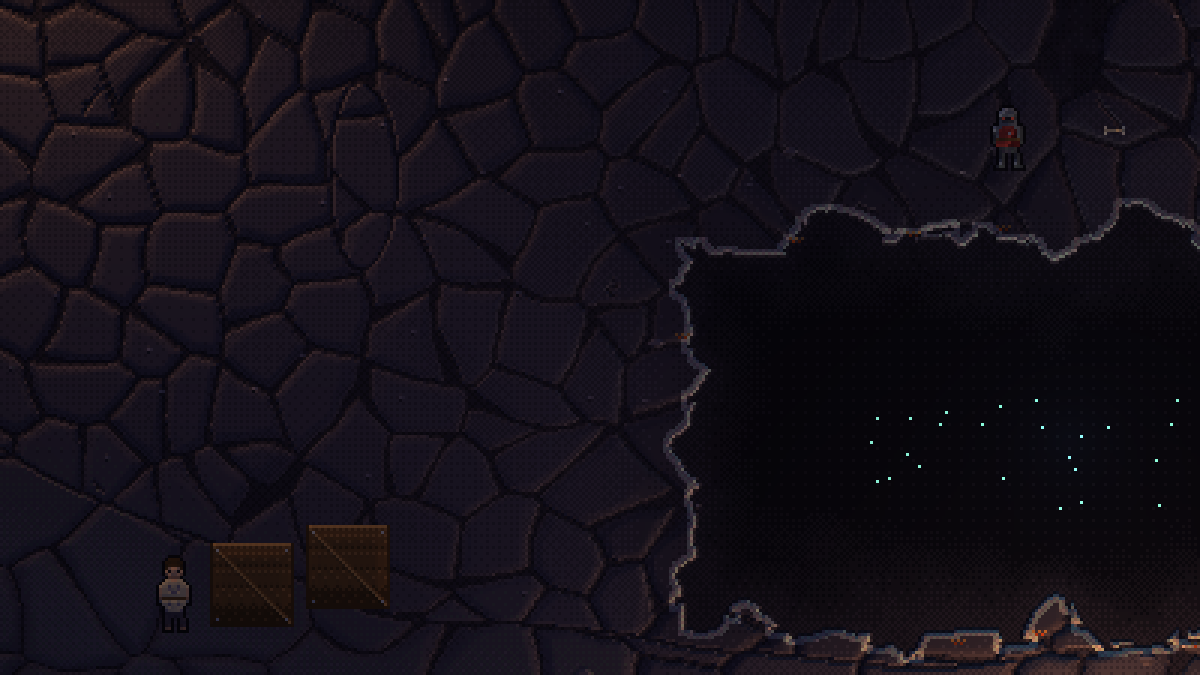
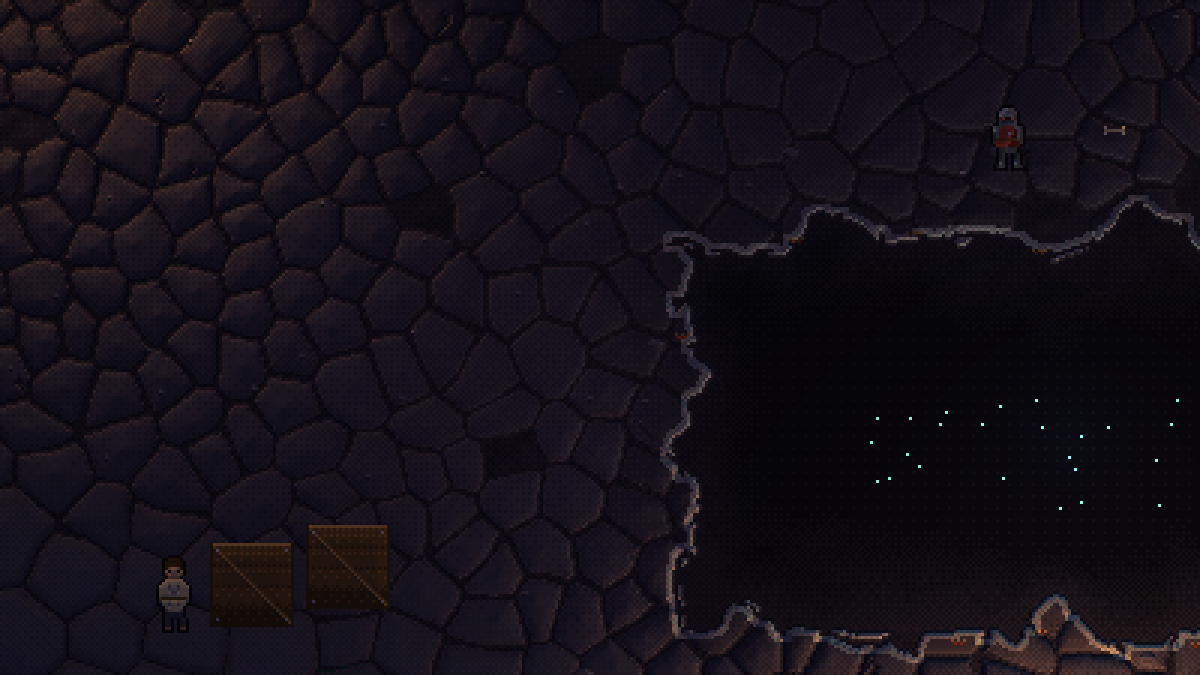
Seamless transitions in the natural floor generator
Replace the three hard stone-size zones with one smooth size field and
variable-radius Poisson-disc scattering under a single Voronoi diagram,
so stone sizes change gradually with no seams. Add a skewed per-stone
size spread to break the honeycomb, gently domed stones, per-stone
dampness decisions, muted moss and puddles, and an unlit debug view.
Document the transition rules and further ideas.

Claude-Session: https://claude.ai/code/session_01Ua1MtajnH2h1ctjtFfeCS3

diff --git a/tools/pixelart/natural_room.py b/tools/pixelart/natural_room.py
@@ -79,57 +79,101 @@ moisture = np.clip(np.exp(-d_water / 110.0) * 1.1 + (fbm(160, 3, 2) - 0.55) * 0.
 wear = np.clip(np.exp(-(d_path / 46.0) ** 2) * (0.7 + 0.5 * fbm(60, 2, 3)), 0, 1)
 grime = np.clip(np.exp(-d_wall / 26.0) * 0.9 + np.exp(-d_pit / 18.0) * 0.6 + (fbm(90, 3, 4) - 0.5) * 0.5, 0, 1)
 
-# --- 1. Warped Voronoi flagstones, in three sizes chosen by zone ----------------------------
+# --- 1. Flagstones with a smoothly varying size --------------------------------------------
+# One stone-size field covers the whole room: big slabs on worn routes, small cobbles in damp
+# ground, ordinary flagstones elsewhere, with gradual change in between. Stone centres are
+# scattered by variable-radius Poisson-disc sampling (each candidate keeps its own spacing),
+# then one Voronoi diagram is built over all of them. No zones, so no seams.
 warp = 6.0
 wx = XX + (fbm(40, 3, 10) - 0.5) * 2 * warp
 wy = YY + (fbm(40, 3, 11) - 0.5) * 2 * warp
 
-def voronoi(cell, jitter, seed):
-    r = np.random.default_rng(seed)
-    ny, nx = int(H / cell) + 4, int(W / cell) + 4
-    jx = r.random((ny, nx)); jy = r.random((ny, nx))
-    # Stretch some cells sideways or up-down so slabs aren't all round.
-    stretch = 0.75 + r.random((ny, nx)) * 0.5
-    gx = np.floor(wx / cell).astype(int); gy = np.floor(wy / cell).astype(int)
-    F1 = np.full((H, W), 1e9); F2 = np.full((H, W), 1e9); ID = np.zeros((H, W), int)
-    for oy in (-2, -1, 0, 1, 2):
-        for ox in (-2, -1, 0, 1, 2):
-            cx = np.clip(gx + ox, -1, nx - 3); cy = np.clip(gy + oy, -1, ny - 3)
-            sx = (cx + 0.5 + (jx[cy + 1, cx + 1] - 0.5) * jitter) * cell
-            sy = (cy + 0.5 + (jy[cy + 1, cx + 1] - 0.5) * jitter) * cell
-            k = stretch[cy + 1, cx + 1]
-            d = np.hypot((wx - sx) * k, (wy - sy) / k)
-            sid = (cy + 1) * nx + (cx + 1) + seed * 100000
-            closer = d < F1
-            F2 = np.where(closer, F1, np.minimum(F2, d))
-            ID = np.where(closer, sid, ID)
-            F1 = np.where(closer, d, F1)
-    return (F2 - F1) * 0.5, ID
+R_MIN, R_MAX = 8.0, 40.0
+size_noise = fbm(120, 3, 20)
+stone_size = np.clip(23.0 + 16.0 * wear - 17.0 * moisture ** 0.8 + (size_noise - 0.5) * 12.0, R_MIN, R_MAX)
 
-edge_big, id_big = voronoi(36.0, 0.9, 1)      # big worn slabs
-edge_mid, id_mid = voronoi(23.0, 0.95, 2)     # ordinary flagstones
-edge_small, id_small = voronoi(12.0, 1.0, 3)  # rough small cobbles in damp ground
-zone_big = (wear > 0.35) | (fbm(170, 2, 20) > 0.66)
-zone_small = (~zone_big) & (moisture > 0.5)
-edge = np.where(zone_big, edge_big, np.where(zone_small, edge_small, edge_mid))
-ID = np.where(zone_big, id_big, np.where(zone_small, id_small, id_mid))
-# A joint wherever two zones meet, so slabs don't merge into cobbles.
-zone = zone_big.astype(int) * 2 + zone_small.astype(int)
-zp = np.pad(zone, 1, mode="edge")
-seam = (zp[1:-1, 2:] != zone) | (zp[2:, 1:-1] != zone)
-edge = np.where(seam, 0.0, edge)
+def scatter_stones(seed):
+    """Variable-radius dart throwing. Returns an (n, 2) array of stone centres."""
+    r = random.Random(seed)
+    B = R_MAX
+    nbx, nby = int(W / B) + 2, int(H / B) + 2
+    buckets = [[[] for _ in range(nbx)] for _ in range(nby)]
+    pts = []
+    for _ in range(90000):
+        x = r.uniform(-B * 0.5, W + B * 0.5); y = r.uniform(-B * 0.5, H + B * 0.5)
+        xi, yi = int(min(W - 1, max(0, x))), int(min(H - 1, max(0, y)))
+        # A little per-stone randomness: now and then a big stone among small ones.
+        # Skewed spread: mostly ordinary stones, some much bigger or smaller. Breaks the honeycomb.
+        rad = stone_size[yi, xi] * (0.6 + 0.9 * r.random() ** 1.6)
+        bx, by = int((x + B) / B), int((y + B) / B)
+        ok = True
+        for yy in range(max(0, by - 1), min(nby, by + 2)):
+            for xx in range(max(0, bx - 1), min(nbx, bx + 2)):
+                for (px, py, pr) in buckets[yy][xx]:
+                    need = (rad + pr) * 0.42
+                    if (x - px) ** 2 + (y - py) ** 2 < need * need:
+                        ok = False; break
+                if not ok: break
+            if not ok: break
+        if ok:
+            buckets[min(nby - 1, by)][min(nbx - 1, bx)].append((x, y, rad))
+            pts.append((x, y))
+    return np.array(pts)
+
+def voronoi_points(pts):
+    """F1/F2 distances and nearest-stone ID for every pixel, using a bucket grid."""
+    B = R_MAX
+    nbx, nby = int(W / B) + 4, int(H / B) + 4
+    bx = np.clip(((pts[:, 0] + 2 * B) / B).astype(int), 0, nbx - 1)
+    by = np.clip(((pts[:, 1] + 2 * B) / B).astype(int), 0, nby - 1)
+    counts = np.zeros((nby, nbx), int)
+    for i in range(len(pts)):
+        counts[by[i], bx[i]] += 1
+    K = counts.max()
+    table = -np.ones((nby, nbx, K), int); fill = np.zeros((nby, nbx), int)
+    for i in range(len(pts)):
+        table[by[i], bx[i], fill[by[i], bx[i]]] = i; fill[by[i], bx[i]] += 1
+    gx = np.clip(((wx + 2 * B) / B).astype(int), 1, nbx - 2)
+    gy = np.clip(((wy + 2 * B) / B).astype(int), 1, nby - 2)
+    F1 = np.full((H, W), 1e9); F2 = np.full((H, W), 1e9); ID = np.zeros((H, W), int)
+    for oy in (-1, 0, 1):
+        for ox in (-1, 0, 1):
+            for k in range(K):
+                idx = table[gy + oy, gx + ox, k]
+                valid = idx >= 0
+                sx = pts[np.maximum(idx, 0), 0]; sy = pts[np.maximum(idx, 0), 1]
+                d = np.where(valid, np.hypot(wx - sx, wy - sy), 1e9)
+                closer = d < F1
+                F2 = np.where(closer, F1, np.minimum(F2, d))
+                ID = np.where(closer, idx, ID)
+                F1 = np.where(closer, d, F1)
+    return (F2 - F1) * 0.5, ID, F1
+
+stones = scatter_stones(1)
+edge, ID, F1 = voronoi_points(stones)
+# How far from the stone's middle (0 = centre, 1 = edge): used to dome each stone.
+centre = np.clip(F1 / (F1 + edge + 1e-6), 0, 1)
+dome = (1 - centre) ** 1.3
 joint_w = 0.5 + fbm(30, 2, 12) * 0.7 + grime * 0.6 - wear * 0.45
 joint = edge < joint_w
 
 def per_stone(seed):
     return (np.sin(ID * 12.9898 + seed * 78.233) * 43758.5453) % 1.0
 tone = per_stone(5)          # per-stone colour
+# Decide dampness stone by stone: sample the moisture map at each stone's centre and compare
+# it with a random threshold per stone. The edge of a damp area becomes a scatter of
+# individual damp and dry stones, as on a real floor, instead of a gradient across stones.
+sx_i = np.clip(stones[:, 0].astype(int), 0, W - 1); sy_i = np.clip(stones[:, 1].astype(int), 0, H - 1)
+moist_at_stone = moisture[sy_i, sx_i][ID]
+damp_stone = (moist_at_stone > per_stone(8) * 0.8 + 0.1).astype(float)
+moisture_px = moisture
+moisture = np.clip(moisture_px * 0.35 + damp_stone * moist_at_stone * 0.9, 0, 1)
 tilt = per_stone(6)          # per-stone height
-missing = (per_stone(7) < 0.02) & ~zone_big
+missing = (per_stone(7) < 0.02) & (stone_size < 30)
 
 # --- 2. Height (for lighting) and albedo --------------------------------------------------
 bevel = np.clip(edge / 3.0, 0, 1)
-height = np.where(joint, 0.15, 0.35 + bevel * 0.3 + tilt * 0.15 - wear * 0.1)
+height = np.where(joint, 0.12, 0.3 + bevel * 0.2 + dome * (0.35 - wear * 0.2) + tilt * 0.12)
 height = np.where(missing, 0.0 + fbm(6, 1, 13) * 0.15, height)
 
 def col(name):
@@ -138,12 +182,12 @@ def col(name):
 stone_dark, stone_mid, stone_light = col("stone2"), col("stone3"), col("stone4")
 polished = col("stone5")
 mortar_c = col("stone1") * 0.7 + col("stone0") * 0.3
-damp_c, moss_c = col("water1"), col("rift1")
+damp_c, moss_c = col("water1"), col("rift0") * 0.7 + col("stone1") * 0.3
 dirt_c = col("stone1") * 0.6 + col("wood0") * 0.4
 
 t = np.clip(tone * 0.35 + macro * 0.5 + bevel * 0.1, 0, 1)[..., None]
 alb = stone_dark * (1 - t) + stone_mid * t
-alb = alb + (stone_light - alb) * (bevel * (1 - grime) * 0.18)[..., None]
+alb = alb + (stone_light - alb) * ((bevel * 0.1 + dome * 0.15) * (1 - grime))[..., None]
 alb = alb + (polished - alb) * (wear * 0.45 * bevel)[..., None]               # worn route
 alb = alb * (1 - moisture * 0.25)[..., None] + damp_c * (moisture * 0.25)[..., None]  # damp
 alb = alb * (1 - grime * 0.35)[..., None]                                     # grime / AO
@@ -169,7 +213,7 @@ height = np.where(crack, 0.1, height)
 
 # Puddles in damp low spots.
 puddle = (moisture > 0.72) & (fbm(25, 2, 16) > 0.58) & (YY < WATER_Y - 4)
-alb = np.where(puddle[..., None], col("water2") * 0.8 + col("water3") * 0.2, alb)
+alb = np.where(puddle[..., None], col("water1") * 0.6 + col("stone1") * 0.25 + col("water3") * 0.15, alb)
 height = np.where(puddle, 0.2, height)
 
 # --- 3. Irregular masonry wall -------------------------------------------------------------
@@ -269,6 +313,7 @@ alb_q = pal[np.argmin(d2, axis=-1)]
 
 # --- 7. Props, characters and lighting --------------------------------------------------------
 albedo = Image.fromarray((alb_q * 255).astype(np.uint8), "RGB").convert("RGBA")
+albedo.convert("RGB").save(os.path.join(OUT, "natural_unlit_960x540.png"))   # the floor without lighting
 hp = np.pad(height, 1, mode="edge")
 dx = (hp[1:-1, 2:] - hp[1:-1, :-2]) * 2.2
 dy = (hp[2:, 1:-1] - hp[:-2, 1:-1]) * 2.2
@@ -332,6 +377,7 @@ both = Image.new("RGB", (W, H * 2 + 6), (0, 0, 0))
 both.paste(old, (0, 0)); both.paste(img, (0, H + 6))
 both.save(os.path.join(OUT, "natural_vs_tiled.png"))
 
+Image.fromarray(((stone_size - R_MIN) / (R_MAX - R_MIN) * 255).astype(np.uint8), "L").save(os.path.join(OUT, "natural_stone_size.png"))
 # Debug view of the layout maps (R = wear, G = moisture, B = grime).
 maps = np.stack([wear, moisture, grime], -1)
 Image.fromarray((maps * 255).astype(np.uint8), "RGB").save(os.path.join(OUT, "natural_maps.png"))

diff --git a/docs/NATURAL_DUNGEONS.md b/docs/NATURAL_DUNGEONS.md
@@ -41,6 +41,28 @@ Prototype result: `assets/art/style_test/natural_vs_tiled.png` (top: tiles, bott
 11. **A different seed each run:** a room keeps its layout, but its stones, cracks and debris change between runs. The game feels familiar but never identical.
 12. **If we keep any tiles** (e.g. hand-drawn special floors): many low-contrast variants with Godot tile probabilities, corner/Wang transitions, and a macro tint over the top.
 
+## Round 2: transitions between areas
+
+**Problem found:** areas with different stone sizes met along a hard line. You could see exactly where "big slab" stone stopped and "cobble" stone began. (Compare `natural_v1_zones_960x540.png` with `natural_960x540.png`.)
+
+**Rule: never switch materials with a mask. Drive everything from continuous fields, and make changes happen one stone at a time.**
+
+What changed in the generator:
+1. **One stone-size field instead of three zones.** Big on worn routes, small in damp ground, ordinary elsewhere, varying smoothly. See `natural_stone_size.png` (white = big).
+2. **Variable-radius Poisson-disc scattering.** Stone centres are spaced according to that field, then *one* Voronoi diagram covers the whole floor, so stones grow and shrink gradually with no seam anywhere.
+3. **A skewed random size per stone.** Mostly ordinary stones, with some much bigger or smaller ones. This breaks the even honeycomb that perfect spacing creates, and lets a big stone sit among small ones like a real repaired floor.
+4. **Domed stones.** Each stone rises slightly towards its middle, so torchlight catches the centres. This reads as worn stone rather than cracked mud.
+5. **Per-stone material decisions.** Dampness is decided stone by stone (the moisture at the stone's centre against a random threshold), so the edge of a damp area is a scatter of damp and dry stones, not a gradient smeared across them.
+
+Before/after close-ups: `seams_before_after_x2.png` (zones vs. smooth field), `dome_before_after_x2.png`, `damp_per_stone_before_after_x2.png`. `natural_unlit_960x540.png` shows the floor without lighting, for judging the stone work.
+
+### Further ideas for transitions
+- **Give boundaries a reason.** Where floor types really must change (a corridor into a hall, dry into flooded), put something there that explains it: a threshold stone, a step, a drain channel, a line of grates, a kerb of dressed stone around the pit. Our eyes accept a visible edge if it's built.
+- **Probabilistic overlap zones** for surface layers too (moss, soot, straw): each stone or patch decides independently, so boundaries dissolve.
+- **Shared joints across materials.** If a room really mixes stone types (say flagstones and cobbles), generate them from one point set so the joint lines continue across the change.
+- **Macro colour has no edges.** Keep the slow colour drift continuous across every zone, so even where stone shapes change, the overall tone doesn't jump.
+- **Two-scale noise in the size field.** Large-scale for the room's story (routes, water), small-scale for patches of repair, so the change between sizes wobbles naturally.
+
 ## How this would work in Godot
 - **A room-art tool** (an in-editor button, built on `tools/pixelart/natural_room.py`) reads the room's walls, hazards, water and drawn wear paths, and bakes **albedo + normal-map textures** for the floor and walls.
 - **In the scene:** each room's floor is one Sprite2D with a CanvasTexture (albedo + normal map) under the existing gameplay geometry, so torchlight and shadows keep working.
